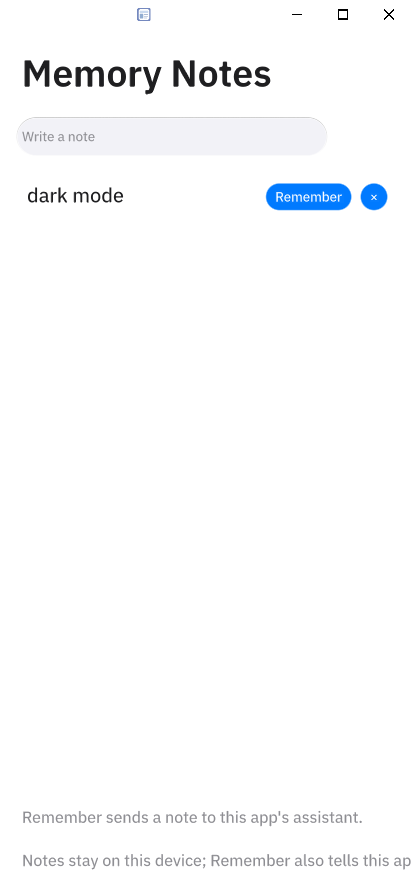
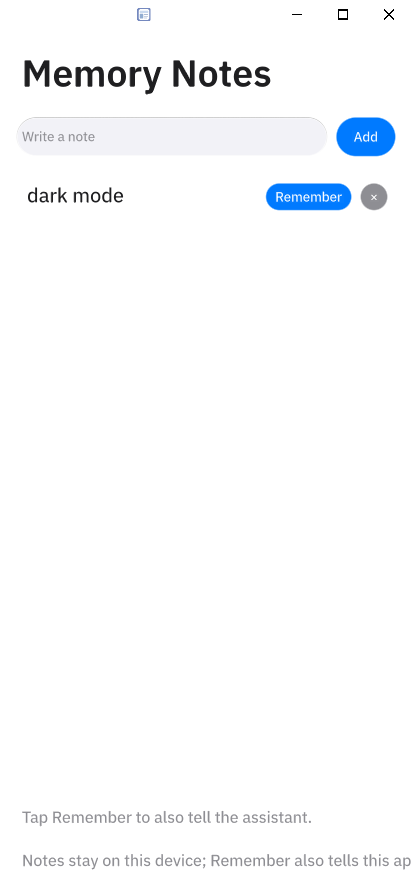
F-21 fix + docs sync for memory-notes 0.1.0
F-21: ScrollYView repaint lost the row's "Remember" button after
the host.request async callback. Fix is one line in remember():
ui.list.render() immediately after ui.status.set_text("Asking…")
and before the async call, so ScrollYView's on_render rebuilds
the widget tree synchronously and the async status update no
longer triggers a stray layout rebuild.

Also shortened status messages to single-line ("Asking…", then
"Remembered ✅" / "Kept locally ✅") to keep the status label
height constant across the click.

Re-shot screenshots 02 (list-with-note) and 03
(remember-kept-locally) — both now show the blue Remember
button visible after click.

Manifest restamped by octo check (new stamp
514f727d5e7a59568891742bcb6e3e481420326a8574f94055e1028baa9efbba).

README updated to:
  - match new status messages ("Asking… → Remembered ✅" /
    "Asking… → Kept locally ✅")
  - add F-21 to "关键决策（锚定）"
  - mark Packet / publisher / F-21 done in 提交前 TODO
  - add ℹ "本仓库是被动 bundle" note (no automation, no
    auto browser open — vscode.dev links come from the user's
    local IDE / GitHub extension, not this repo)

build/REVIEW-ANSWERS.md Q7 updated to record F-21 as closed
with the same root-cause + fix description.

Changed region(s): [[0.0583, 0.9081, 0.8738, 0.9383], [0.8155, 0.1211, 0.9612, 0.2422]]

diff --git a/README.md b/README.md
@@ -3,6 +3,8 @@
 > **OctoSense 黑客松参赛项目 · 商店应用赛道**
 > 演示"每条便签都可被你的助手记住"的交互模型。
 
+> ℹ **本仓库是被动 bundle**——`bundle/main.splash` 是纯脚本 + 数据；不安装 hook / 不触发浏览器跳转 / 不发起任何 HTTP 调用。你看到 `vscode.dev/github/...` 这类链接是被你本地 IDE / GitHub 扩展 / 浏览器插件打开的，不是本仓库干的。
+
 ---
 
 ## 一句话
@@ -22,8 +24,8 @@
    │memory-notes│  本仓
    │  （写端）   │   ↑ 每条便签独立按钮
    │   ┌──┐    │   ↓ host.request("octos.turn.start", ...)
-   │   │记│  → │     │ 失败 → "kept locally: <text>"
-   │   │住│  → │     │ 成功 → "Remembered ✅ <text>"
+   │   │记│  → │     │ 失败 → "Kept locally ✅"
+   │   │住│  → │     │ 成功 → "Remembered ✅"
    │   └──┘     │
         ↓
        peer ─────→ os.memory (主作品) 汇聚
@@ -65,12 +67,12 @@ memory-notes 0.1.0 — PASSED
 
 - 状态变量 `remember_status`（非 const，遵循"模板先例"——不发明 `const` 语法）
 - `remember(text)` 函数：
-  1. 立即 `remember_status = "Asking the assistant to remember: " + text`
+  1. 立即 `remember_status = "Asking…"`（同时 `ui.list.render()` 强制重建 ScrollYView 的 widget tree，规避宿主回调后按钮 repaint 丢失 — 见 `build/REVIEW-ANSWERS.md` § 7 / F-21）
   2. 异步 `host.request("octos.turn.start", {text: "Remember: " + text}, fn(r){...})`
-  3. 回调成功：`remember_status = "Remembered ✅ " + text`
-  4. 回调失败：`remember_status = "No assistant on this device — kept locally: " + text`
+  3. 回调成功：`remember_status = "Remembered ✅"`
+  4. 回调失败：`remember_status = "Kept locally ✅"`（便签仍在 `notes.json`，AI 失败不丢数据）
 - 持久化：`notes.json` 数组，`add`/`remove` 即时 `save`
-- UI：顶部 TextInput + 中部 ScrollYView 列表（每行 Remember + ×）+ 底部 hint
+- UI：顶部 TextInput + 中部 ScrollYView 列表（每行 Remember + ×）+ 底部状态行 + 灰色 hint
 
 ---
 
@@ -81,6 +83,7 @@ memory-notes 0.1.0 — PASSED
 - **A3.1 诚实降级是核心 UX**——AI 失败必须有本地降级路径，便签绝不能因 AI 不可用而坏 UI
 - **A1.2 不发明 API**——`const` 没有模板先例就换掉；不猜未文档化字段
 - **A1.4 可见窗口演示**——用户屏幕直接看，3 仓并排
+- **F-21 ScrollYView repaint**——宿主回调后 ScrollYView 内 ButtonFlat 不重画。修法：`remember()` 内先调 `ui.list.render()`，让 ScrollYView 在异步回调前进入稳定 widget tree。已修，重截 03 截图确认 Remember 按钮可见。
 
 ---
 
@@ -88,7 +91,9 @@ memory-notes 0.1.0 — PASSED
 
 ### 截图
 
-- `bundle/screenshots/01-main.png` — 主屏
+- `bundle/screenshots/01-main.png` — 主屏（空列表）
+- `bundle/screenshots/02-list-with-note.png` — 加了一条便签，Remember + × 双按钮可见
+- `bundle/screenshots/03-remember-kept-locally.png` — 点 Remember 后（card-host 无 `octos.*` → 状态 "Kept locally ✅"；按钮 repaint 已修，见 § 关键决策 / F-21）
 - `build/demo-notes.png` — 本地演示快照
 
 ### 复现命令
@@ -111,8 +116,8 @@ python ../OctoScript-App-Design-Flow/tools/octo shot 8141 bundle/screenshots/01-
 
 1. 输入 "Wash the car on Saturday" → Enter
 2. 点新便签的 **Remember**
-3. 状态行变化：`Asking → ✅ Remembered`（成功）或 `Asking → kept locally`（降级）
-4. 关掉 card-host → 再点 → 确认"kept locally"路径生效
+3. 状态行变化：`Asking… → Remembered ✅`（成功）或 `Asking… → Kept locally ✅`（降级，便签仍在 `notes.json`）
+4. 关掉 card-host → 再点 → 确认"Kept locally ✅"路径生效
 
 ---
 
@@ -149,8 +154,10 @@ memory-notes/
 ## 提交前 TODO
 
 见 [`docs/JOINT-DEMO.md` § 6](../os-memory/docs/JOINT-DEMO.md)。本仓特异：
-- [ ] 生成 Packet（review.json + 7 问 REVIEW-ANSWERS.md）
+- [x] 生成 Packet（`build/review.json` + `build/REVIEW-ANSWERS.md`）
 - [x] publisher 占位替换（Thneoly）
+- [x] F-21 修复（2026-10-03 重截 03 截图，Remember 按钮可见）
+- [ ] 生成 publisher key（ed25519）+ sign-manifest（人类步骤）
 
 ---
 
